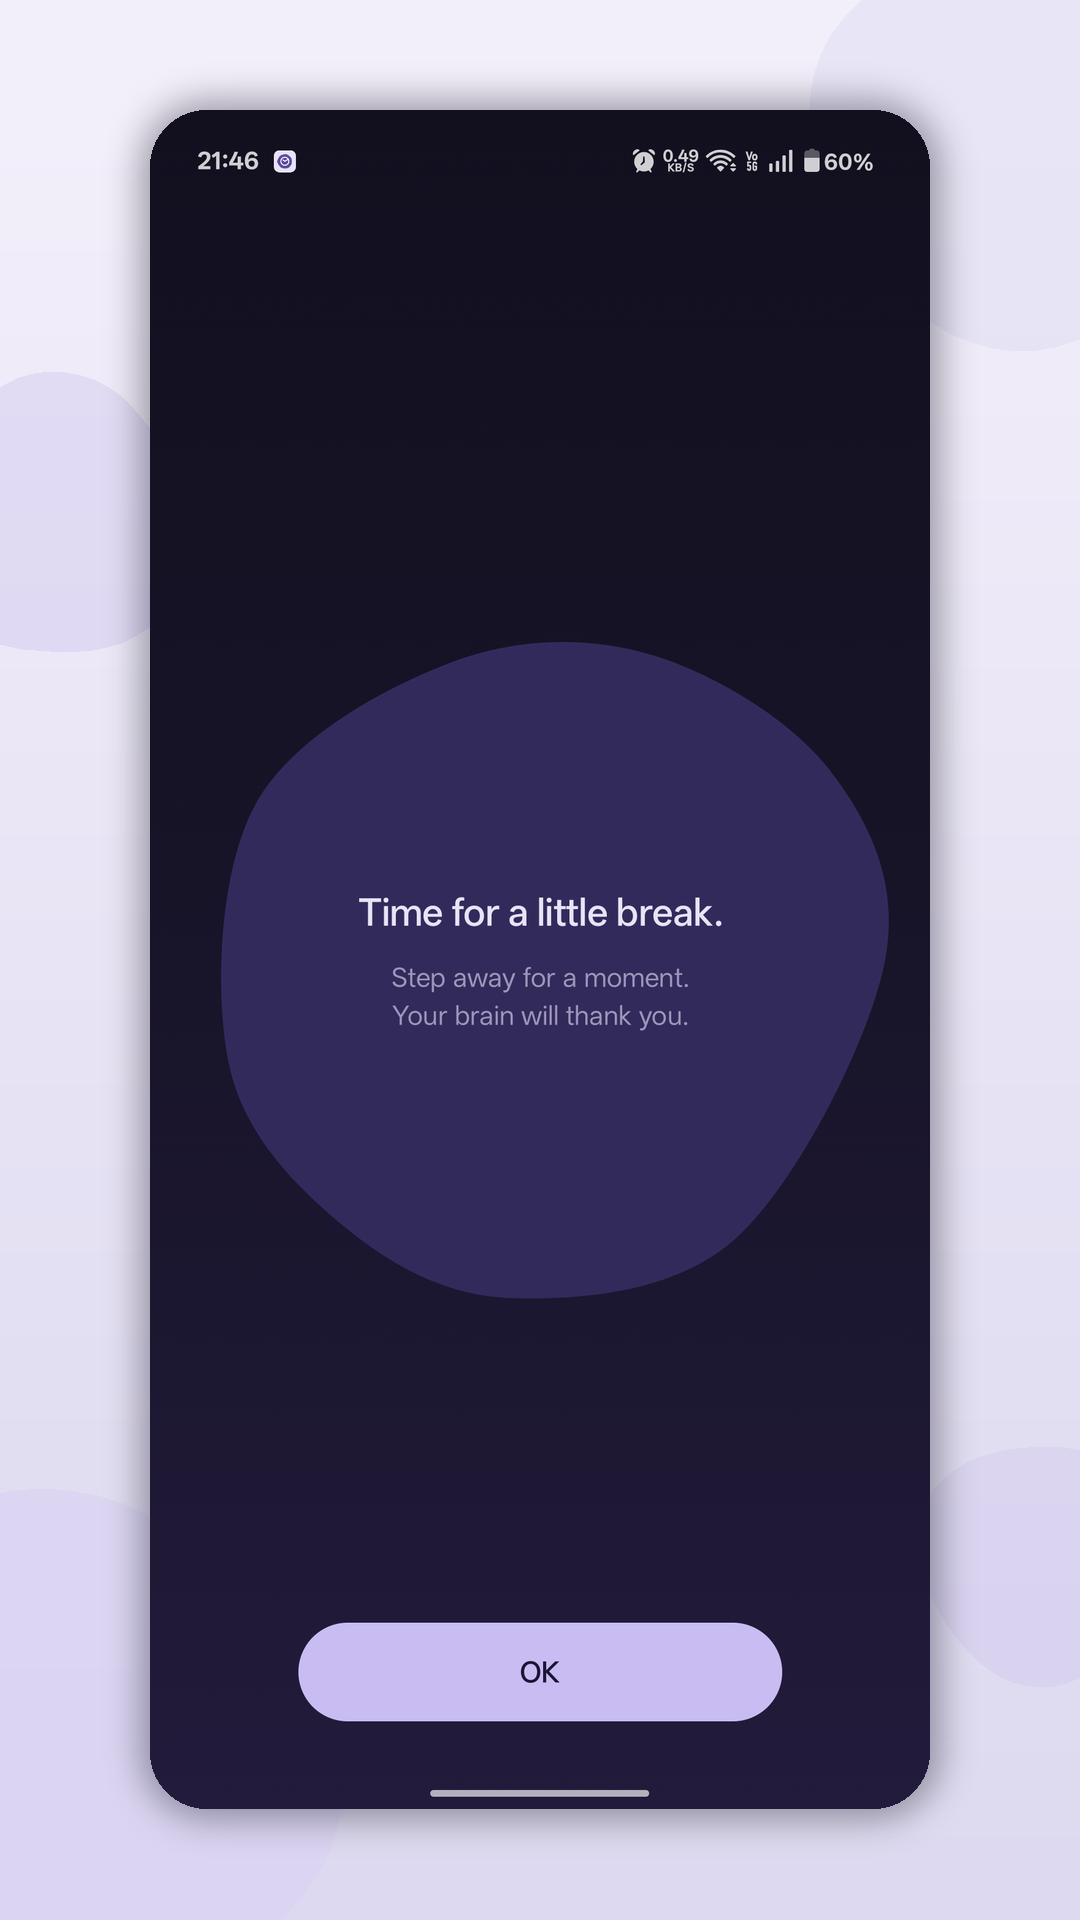
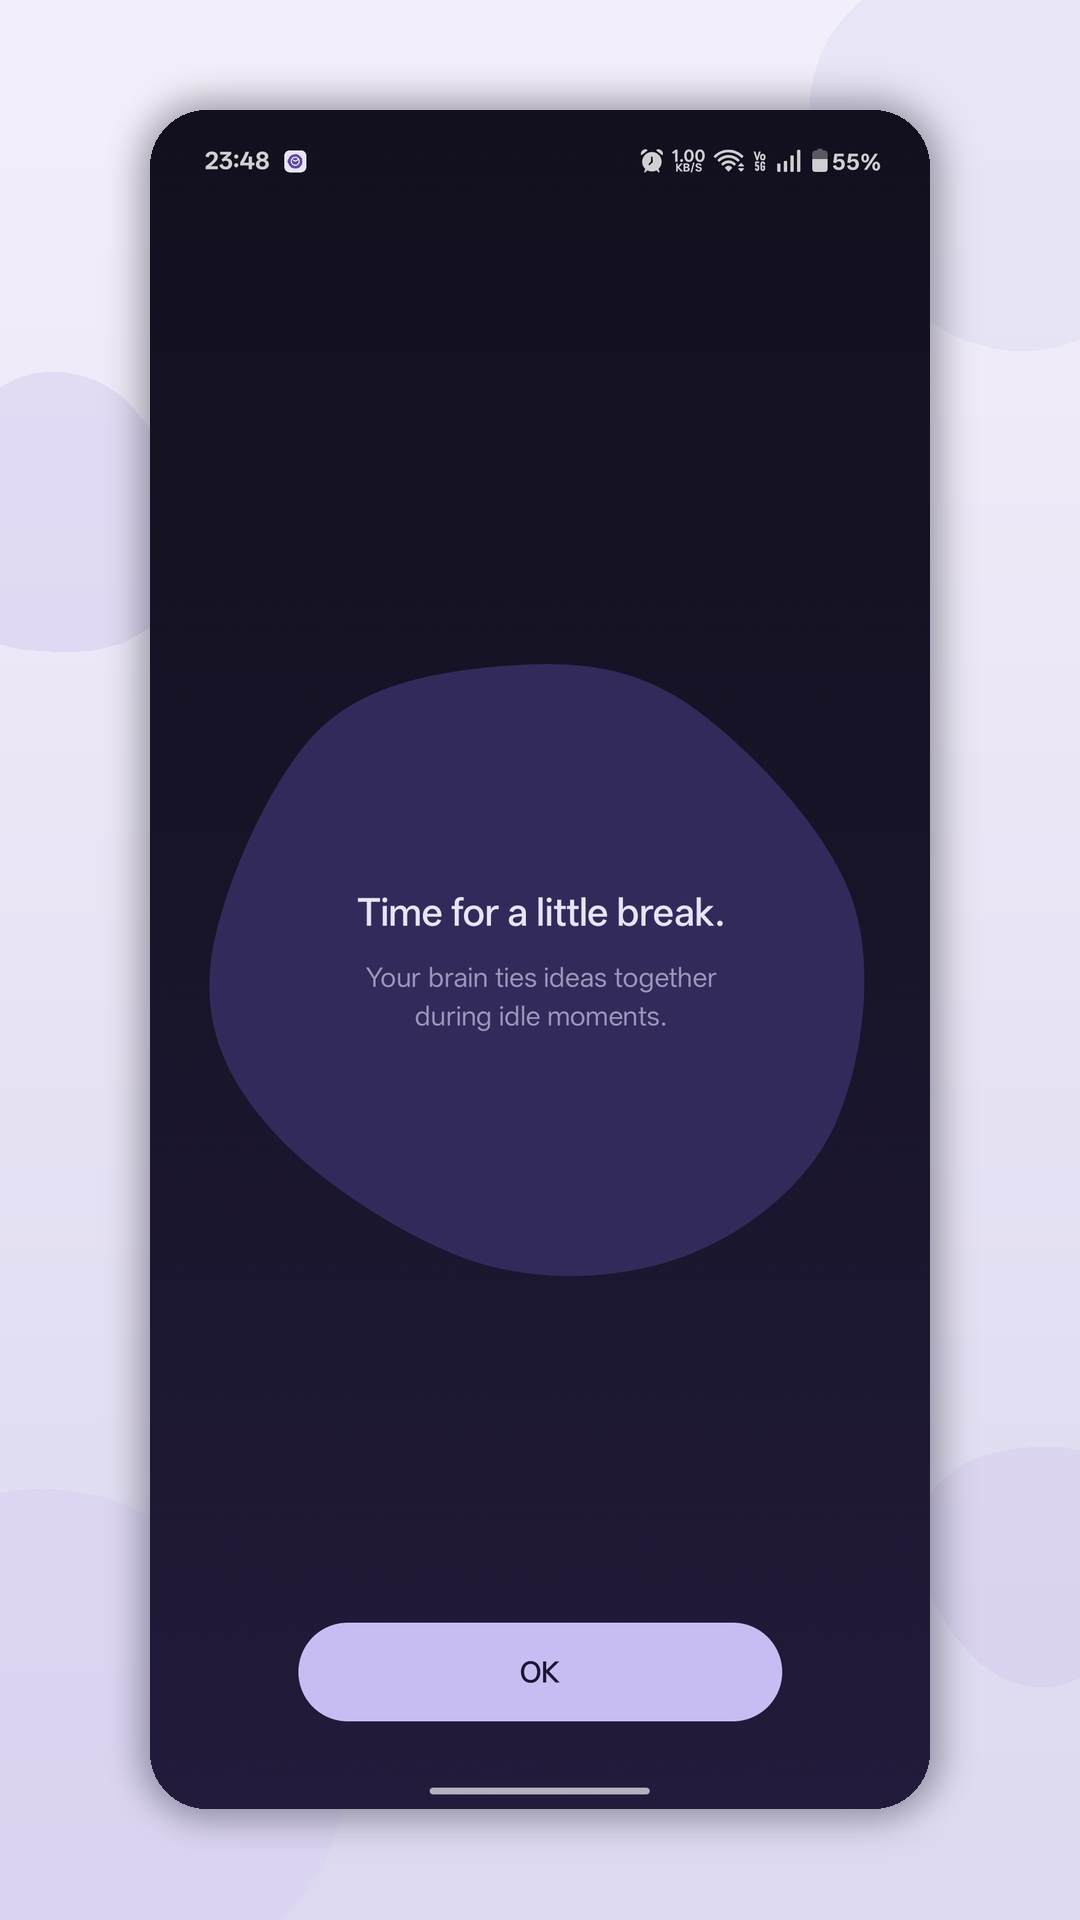
Show app screenshots in README
Regenerate the break-reminder and notification shots with the new
rotating messages, and surface them in the README: a row of three
under the intro, the rest in a collapsed section.

diff --git a/README.md b/README.md
@@ -7,6 +7,29 @@ interval — nothing more. No accounts, no tracking, no network access.
 
 ---
 
+<p align="center">
+  <img src="art/screenshots/1-home-light.png" width="250" alt="Breaks home screen, light theme" />
+  &nbsp;
+  <img src="art/screenshots/3-break-reminder.png" width="250" alt="Full-screen break reminder" />
+  &nbsp;
+  <img src="art/screenshots/6-notification.png" width="250" alt="Heads-up break notification" />
+</p>
+
+<details>
+<summary>More screenshots</summary>
+
+<p align="center">
+  <img src="art/screenshots/2-home-dark.png" width="200" alt="Breaks home screen, dark theme" />
+  &nbsp;
+  <img src="art/screenshots/4-settings.png" width="200" alt="Settings" />
+  &nbsp;
+  <img src="art/screenshots/5-resting.png" width="200" alt="Paused state" />
+  &nbsp;
+  <img src="art/screenshots/7-onboarding.png" width="200" alt="Onboarding" />
+</p>
+
+</details>
+
 ## Features
 
 - **Countdown at a glance** — time until your next break, rendered inside a
